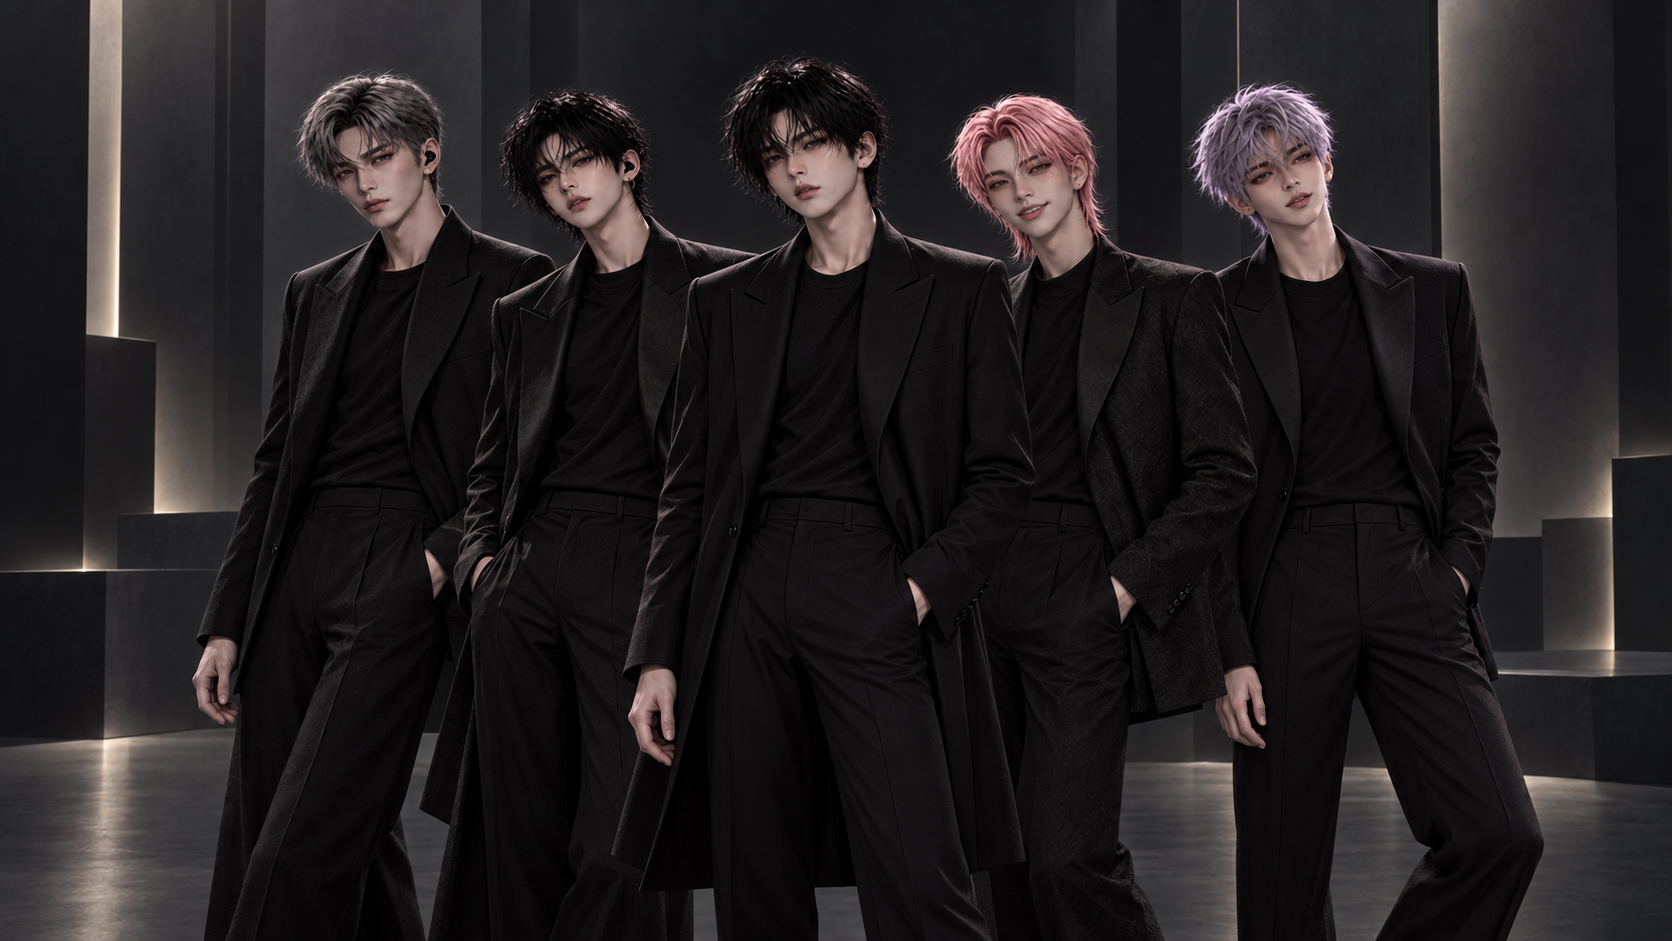
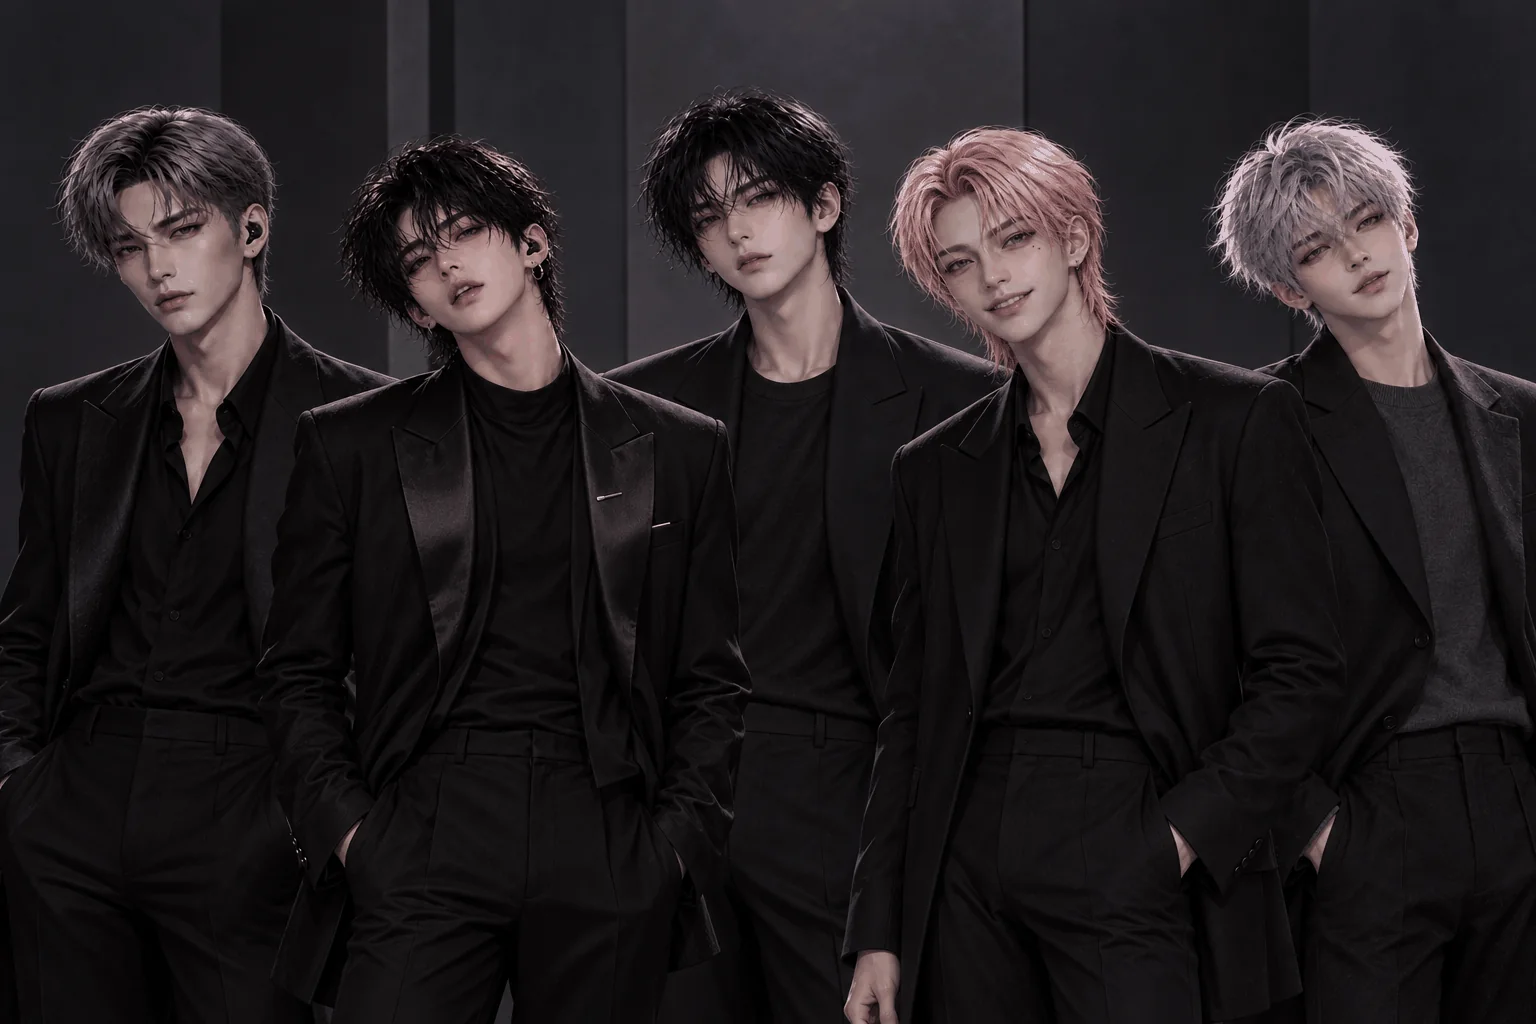
Separate HOME hero and About images

diff --git a/src/react/HomePage.jsx b/src/react/HomePage.jsx
@@ -2,7 +2,7 @@ import {useEffect} from 'react';
 
 function EditorialFeature(){return <section className="section home-editorial"><div className="container home-editorial-inner"><div><span className="section-kicker">NIGHT EDITORIAL</span><h2>FIVE VOICES</h2></div><div><p>다섯 멤버가 말하는 지금의 NIGHT. 무대 위의 정체성과 무대 밖의 시간을 인터뷰에서 만나보세요.</p><a className="btn" href="five-voices.html">READ THE INTERVIEW →</a></div></div></section>;}
 
-function Hero() { return (<section className={"hero"}>{"\n"}<img alt={"NIGHT 단체 이미지"} className={"hero-image"} src={"assets/images/home-night.webp"} />{"\n"}<div className={"hero-content"}>{"\n"}<p className={"eyebrow"}>{"Castle Entertainment · 5 Member Group"}</p>{"\n"}<h1 className={"hero-title"}>{"NIGHT"}</h1>{"\n"}<p className={"hero-debut"}>{"DEBUT · 2022.11.15"}</p>{"\n"}<p className={"hero-copy"}>{"무대 위의 밤을 지배하는 대체불가 5인조 아이돌 그룹. 강렬한 퍼포먼스와 독보적인 존재감으로 데뷔 이후 정상의 자리를 이어가고 있다."}</p>{"\n"}<p className={"hero-slogan"}>{"WHEN THE NIGHT FALLS, WE SHINE."}</p>{"\n"}<div className={"cta-row"}>{"\n"}<a className={"btn"} href={"#members"}>{"MEET THE MEMBERS"}</a>{"\n"}<a className={"btn secondary"} href={"fanclub.html"}>{"OFFICIAL FANCLUB"}</a>{"\n"}</div>{"\n"}</div>{"\n"}</section>); }
+function Hero() { return (<section className={"hero"}>{"\n"}<img alt={"NIGHT 단체 이미지"} className={"hero-image"} src={"assets/images/home-hero-night.webp"} />{"\n"}<div className={"hero-content"}>{"\n"}<p className={"eyebrow"}>{"Castle Entertainment · 5 Member Group"}</p>{"\n"}<h1 className={"hero-title"}>{"NIGHT"}</h1>{"\n"}<p className={"hero-debut"}>{"DEBUT · 2022.11.15"}</p>{"\n"}<p className={"hero-copy"}>{"무대 위의 밤을 지배하는 대체불가 5인조 아이돌 그룹. 강렬한 퍼포먼스와 독보적인 존재감으로 데뷔 이후 정상의 자리를 이어가고 있다."}</p>{"\n"}<p className={"hero-slogan"}>{"WHEN THE NIGHT FALLS, WE SHINE."}</p>{"\n"}<div className={"cta-row"}>{"\n"}<a className={"btn"} href={"#members"}>{"MEET THE MEMBERS"}</a>{"\n"}<a className={"btn secondary"} href={"fanclub.html"}>{"OFFICIAL FANCLUB"}</a>{"\n"}</div>{"\n"}</div>{"\n"}</section>); }
 
 function About() { return (<section className={"section"}>{"\n"}<div className={"container about-grid reveal"}>{"\n"}<div className={"about-visual"}><img alt={"NIGHT 멤버 프로필 이미지"} src={"assets/images/home-night.webp"} /></div>{"\n"}<div className={"about-copy"}>{"\n"}<span className={"section-kicker"}>{"About NIGHT"}</span>{"\n"}<h2 className={"section-title"}>{"The irreplaceable idols."}</h2>{"\n"}<p>{"NIGHT는 CASTLE Entertainment 소속의 5인조 아이돌 그룹이다."}</p>{"\n"}<p>{"데뷔 초반 섹시 콘셉트와 강렬한 무대 장악력을 앞세워, 데뷔 약 10일 만에 Billboard Global Excl. U.S.에 처음 진입하며 빠르게 주목받았다."}</p>{"\n"}<p>{"이후 하나의 이미지에 머무르지 않고 음악과 퍼포먼스, 콘셉트와 비주얼의 영역을 끊임없이 확장하며 NIGHT만의 색을 만들어왔다."}</p>{"\n"}<p>{"NIGHT의 중심에는 언제나 다섯 멤버가 있다."}</p>{"\n"}<p>{"서로 다른 개성과 표현 방식이 하나의 무대에서 만나며, 앨범마다 새로운 모습을 보여주면서도 NIGHT만의 정체성을 잃지 않는다."}</p>{"\n"}<p>{"정해진 하나의 콘셉트가 아니라, 다섯 사람이 함께할 때 완성되는 색."}</p>{"\n"}<p>{"그것이 NIGHT다."}</p>{"\n"}<div className={"stats"}><div className={"stat"}><strong>{"5"}</strong><span>{"CURRENT MEMBERS"}</span></div><div className={"stat"}><strong>{"10D"}</strong><span>{"TO BILLBOARD ENTRY"}</span></div><div className={"stat"}><strong>{"6Y"}</strong><span>{"CAREER"}</span></div></div>{"\n"}</div></div></section>); }
 
